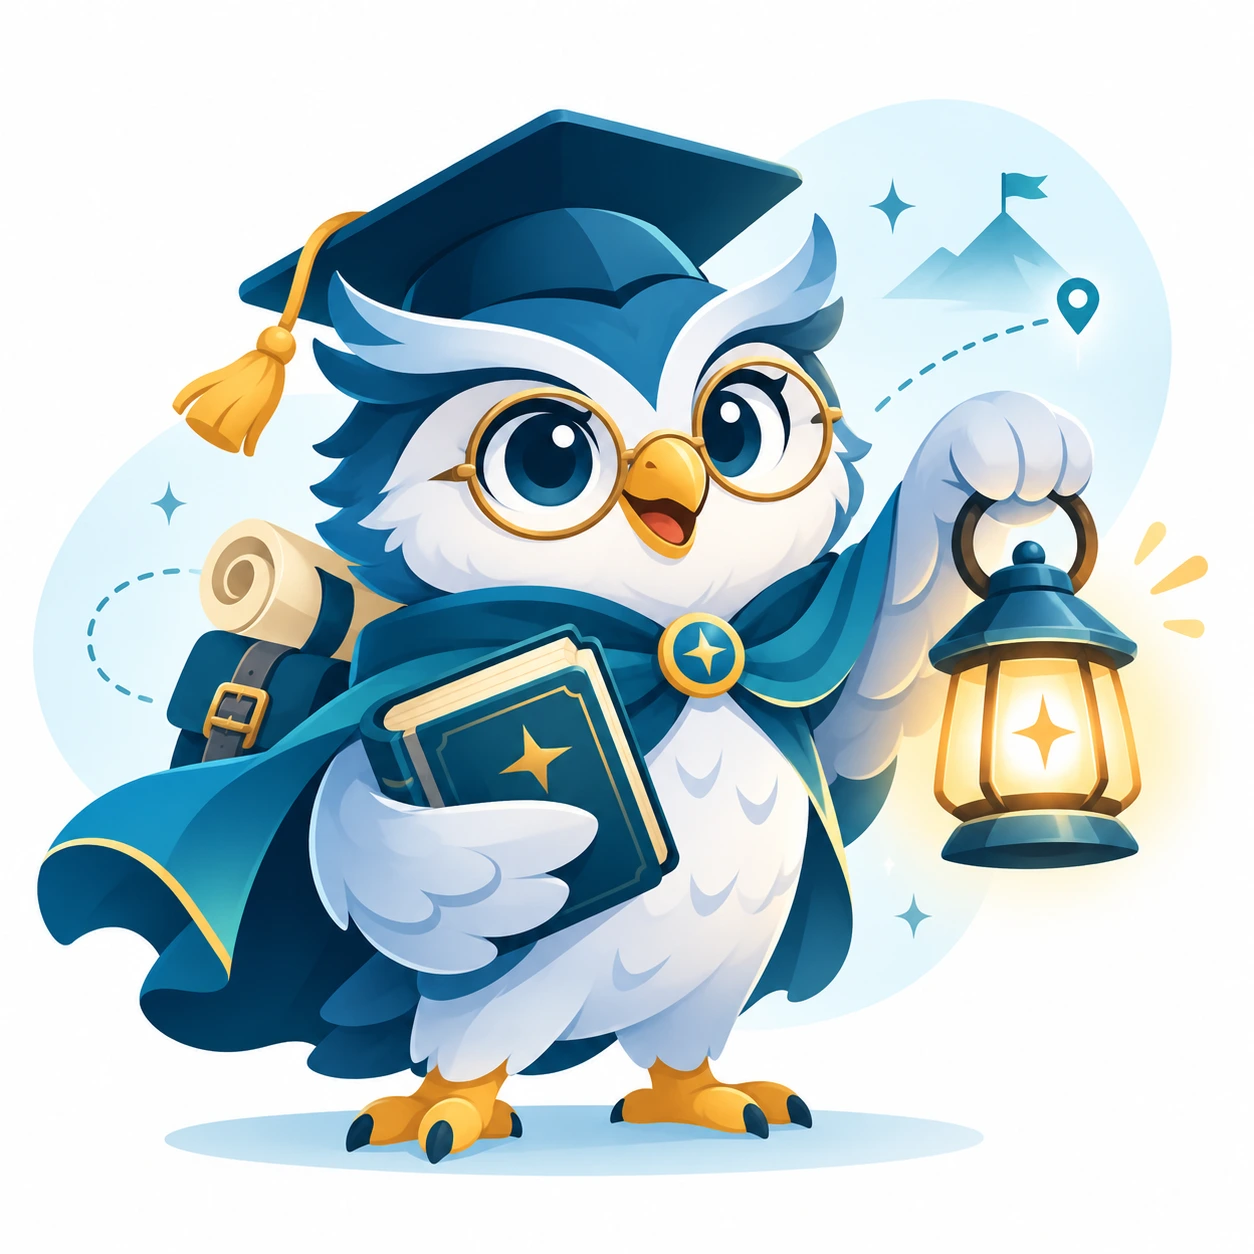
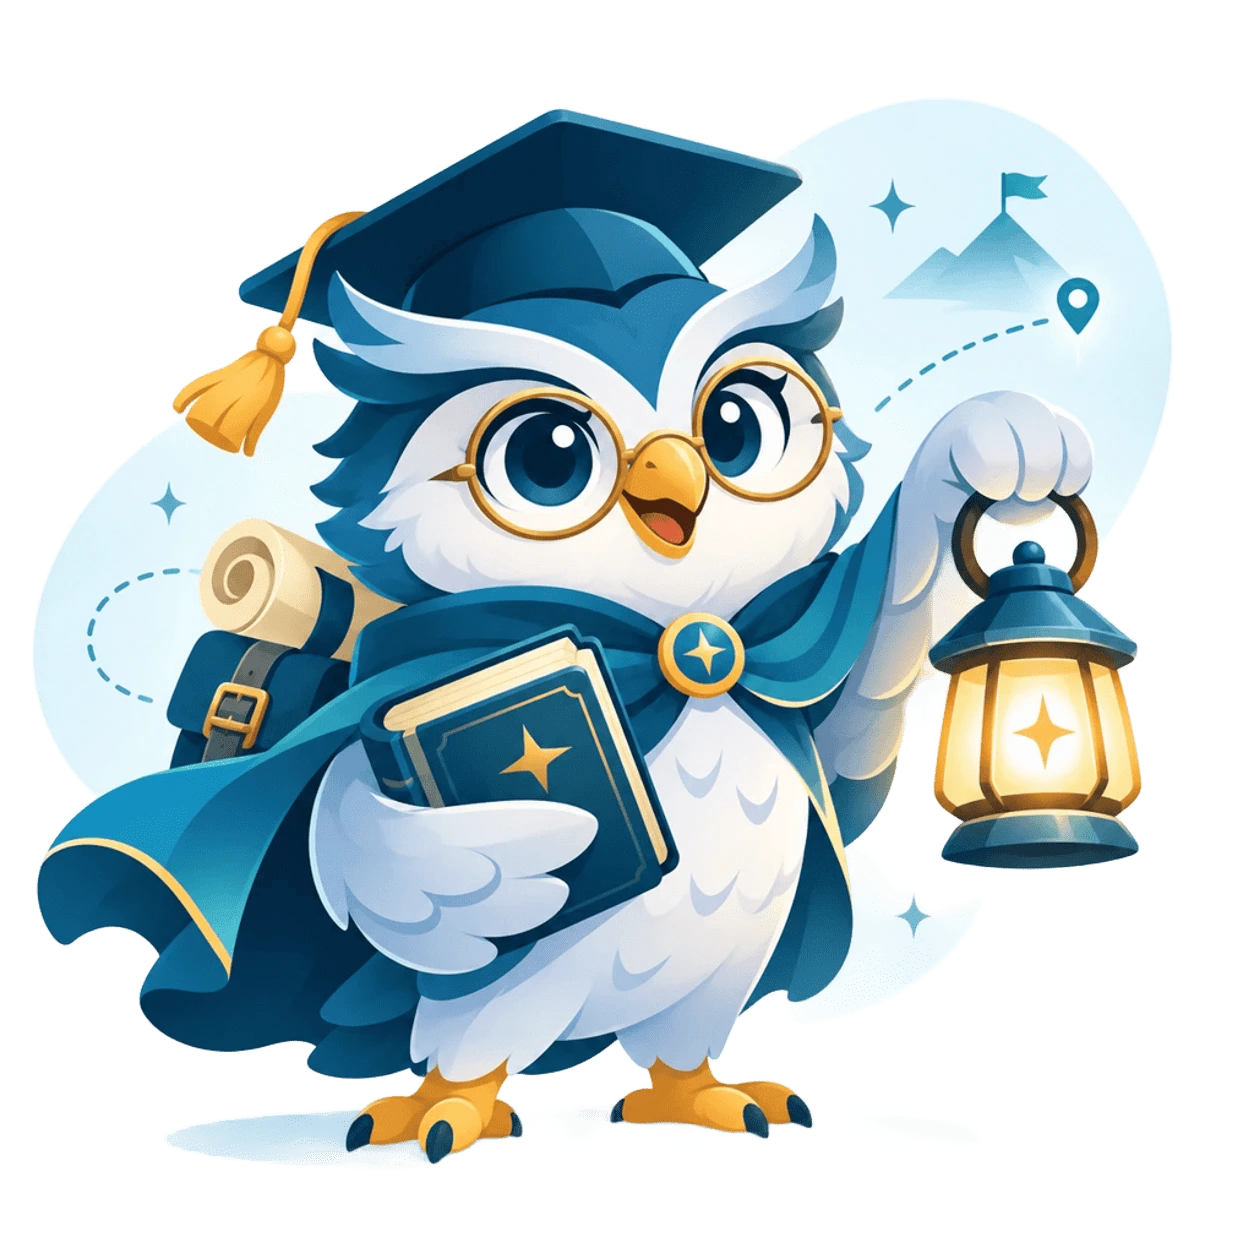
feat: enhance AboutSection layout and add useHeroReveal hook for improved animations

diff --git a/FrontEnd/src/features/home/components/Hero.tsx b/FrontEnd/src/features/home/components/Hero.tsx
@@ -1,43 +1,68 @@
-import { ArrowRight } from "lucide-react"
-import { Button } from "@/shared/components/ui/button"
-import { WaveBg } from "./wave"
-import Link from "next/link"
+"use client";
+
+import { ArrowRight } from "lucide-react";
+import { Button } from "@/shared/components/ui/button";
+import { WaveBg } from "./wave";
+import Link from "next/link";
+import { useHeroReveal } from "@/features/home/hooks/useHeroReveal";
 
 export function Hero() {
+  const { heroRef, leftRef, rightRef, contentRef } = useHeroReveal();
+
   return (
-    <section id="top" className="relative overflow-hidden bg-background px-4 pt-40 md:pt-32 pb-28 mx-auto">
-      <div className="flex items-center justify-center">
-        <div className="w-full container overflow-hidden bg-secondary-light relative z-10 flex flex-col items-center gap-6 text-center px-4 py-30 rounded-3xl">
+    <section
+      ref={heroRef}
+      id="top"
+      className="bg-background relative mx-auto min-h-screen overflow-hidden px-4 pt-40 pb-28 md:pt-32"
+    >
+      {/* Dark curtain */}
+      <div
+        aria-hidden="true"
+        className="pointer-events-none absolute inset-0 z-30 flex overflow-hidden"
+      >
+        <div ref={leftRef} className="h-full w-1/2 bg-[#101820]" />
+        <div ref={rightRef} className="h-full w-1/2 bg-[#101820]" />
+      </div>
 
-            <h1 className="max-w-[30ch] text-[clamp(2.2rem,5.2vw,5rem)] leading-tight font-extrabold tracking-normal text-balance text-primary-text">
-                Materi, progres, dan review. Semua di satu tempat.
-            </h1>
+      {/* Hero content */}
+      <div ref={contentRef} className="flex items-center justify-center">
+        <div className="bg-secondary-light relative z-10 container flex w-full flex-col items-center gap-6 overflow-hidden rounded-3xl px-4 py-30 text-center">
+          <h1 className="text-primary-text max-w-[30ch] text-[clamp(2.2rem,5.2vw,5rem)] leading-tight font-extrabold tracking-normal text-balance">
+            Materi, progres, dan review. Semua di satu tempat.
+          </h1>
 
-            <p className="max-w-[70ch] text-[clamp(0.9375rem,1.5vw,1.0625rem)] leading-relaxed text-pretty text-secondary-text">
-            Mentor langsung tahu siapa yang belum mulai dan siapa yang menunggu review. Anggota tahu persis apa yang dikerjakan berikutnya. Tanpa tanya-tanya di grup chat.
-            </p>
+          <p className="text-secondary-text max-w-[70ch] text-[clamp(0.9375rem,1.5vw,1.0625rem)] leading-relaxed text-pretty">
+            Mentor langsung tahu siapa yang belum mulai dan siapa yang menunggu
+            review. Anggota tahu persis apa yang dikerjakan berikutnya. Tanpa
+            tanya-tanya di grup chat.
+          </p>
 
-            <div className="mt-1.5 flex flex-wrap justify-center gap-3">
-            <Button size="lg" className="group h-11 rounded-full px-6 bg-primary text-[15px] font-semibold text-white hover:bg-white hover:text-primary-text cursor-pointer">
-                <Link href={"/auth"} className="h-11 flex gap-1 items-center justify-center">
+          <div className="mt-1.5 flex flex-wrap justify-center gap-3">
+            <Button
+              size="lg"
+              className="group bg-primary hover:text-primary-text h-11 cursor-pointer rounded-full px-6 text-[15px] font-semibold text-white hover:bg-white"
+            >
+              <Link
+                href="/auth"
+                className="flex items-center justify-center gap-1"
+              >
                 Mulai
                 <ArrowRight className="ml-1 size-4 transition-transform group-hover:translate-x-0.5" />
-                </Link>
+              </Link>
             </Button>
-            <Button
-                size="lg"
-                variant="outline"
-                className="h-11 rounded-full border-border bg-background px-6 text-[15px] font-semibold text-primary-text hover:bg-primary hover:text-white cursor-pointer"
-            >
-                <Link href={"#how-to"}>
-                    Jelajahi
-                </Link>
-            </Button>
-            </div>
 
-            <WaveBg />
+            <Button
+              size="lg"
+              variant="outline"
+              className="border-border bg-background text-primary-text hover:bg-primary h-11 cursor-pointer rounded-full px-6 text-[15px] font-semibold hover:text-white"
+            >
+              <Link href="#how-to">Jelajahi</Link>
+            </Button>
+          </div>
+
+          <WaveBg />
         </div>
       </div>
     </section>
-  )
+  );
 }

diff --git a/FrontEnd/src/features/home/components/AboutSection.tsx b/FrontEnd/src/features/home/components/AboutSection.tsx
@@ -1,37 +1,44 @@
-import { Settings } from "lucide-react"
-import { Separator } from "@base-ui/react/separator"
-import { OwlArt } from "./owl-art"
-import { STATS } from "../data/data"
-import Image from "next/image"
+import { Settings } from "lucide-react";
+import { Separator } from "@base-ui/react/separator";
+import { OwlArt } from "./owl-art";
+import { STATS } from "../data/data";
+import Image from "next/image";
 
 export function About() {
   return (
-    <section id="tentang" className="bg-background py-[clamp(3.5rem,7vw,6rem)] px-4">
-      <div className="container grid items-center gap-[clamp(1.75rem,5vw,4rem)] lg:grid-cols-[1.05fr_.95fr] mx-auto">
+    <section
+      id="tentang"
+      className="bg-background px-4 py-[clamp(3.5rem,7vw,6rem)]"
+    >
+      <div className="container mx-auto grid items-center gap-[clamp(1.75rem,5vw,4rem)] lg:grid-cols-[1.05fr_.95fr]">
         <div className="flex flex-col gap-8">
-
-          <h2 className="max-w-[26ch] text-[clamp(1.625rem,3.4vw,2.375rem)] leading-[1.16] font-extrabold tracking-[-0.02em] text-balance text-primary-text">
+          <h2 className="text-primary-text max-w-[26ch] text-[clamp(1.625rem,3.4vw,2.375rem)] leading-[1.16] font-extrabold tracking-[-0.02em] text-balance">
             Semua Tentang Lentera.
           </h2>
 
-          <p className="text-[15px] leading-[1.72] text-secondary-text text-justify">
-            Workshop dan kelompok belajar BCC diikuti banyak anggota dengan ritme yang tidak sama.
-            Sebagian sudah menyelesaikan materi pertama, sebagian belum mulai, sebagian menunggu
-            keputusan review. Tanpa catatan bersama, informasi ini tersebar di percakapan dan ingatan. Learning Tracker menyatukan materi, progres, dan hasil belajar dalam satu sumber yang sama. Mentor buka satu halaman, langsung tahu siapa yang perlu didorong, siapa yang menunggu review, dan materi mana yang mandek. Tanpa perlu tanya ulang.
+          <p className="text-secondary-text text-justify text-[15px] leading-[1.72]">
+            Workshop dan kelompok belajar BCC diikuti banyak anggota dengan
+            ritme yang tidak sama. Sebagian sudah menyelesaikan materi pertama,
+            sebagian belum mulai, sebagian menunggu keputusan review. Tanpa
+            catatan bersama, informasi ini tersebar di percakapan dan ingatan.
+            Learning Tracker menyatukan materi, progres, dan hasil belajar dalam
+            satu sumber yang sama. Mentor buka satu halaman, langsung tahu siapa
+            yang perlu didorong, siapa yang menunggu review, dan materi mana
+            yang mandek. Tanpa perlu tanya ulang.
           </p>
 
-          <Separator className="mt-2.5 bg-border" />
+          <Separator className="bg-border mt-2.5" />
 
-          <div className="hidden md:grid grid-cols-1 gap-4 pt-1.5 sm:grid-cols-3 sm:gap-3">
+          <div className="hidden grid-cols-1 gap-4 pt-1.5 sm:grid-cols-3 sm:gap-3 md:grid">
             {STATS.map((s) => (
               <div key={s.label}>
-                <div className="mb-1 text-[11.5px] font-bold tracking-[0.1em] text-secondary-text/60 uppercase">
+                <div className="text-secondary-text/60 mb-1 text-[11.5px] font-bold tracking-[0.1em] uppercase">
                   {s.label}
                 </div>
-                <div className="text-[22px] font-extrabold tracking-[-0.02em] text-primary">
+                <div className="text-primary text-[22px] font-extrabold tracking-[-0.02em]">
                   {s.num}
                 </div>
-                <div className="mt-0.5 text-[13px] leading-snug text-secondary-text">
+                <div className="text-secondary-text mt-0.5 text-[13px] leading-snug">
                   {s.desc}
                 </div>
               </div>
@@ -39,10 +46,16 @@ export function About() {
           </div>
         </div>
 
-        <div className="order-first lg:order-none h-full flex items-center justify-center border bg-secondary-light rounded-3xl">
-          <Image src={"/owl-art.webp"} alt="maskot" width={500} height={500} className="w-[50%]"/>
+        <div className="bg-secondary-light order-first flex h-full items-center justify-center rounded-3xl border lg:order-none">
+          <Image
+            src={"/mascot.webp"}
+            alt="mascot"
+            width={500}
+            height={500}
+            className="w-[50%]"
+          />
         </div>
       </div>
     </section>
-  )
+  );
 }

diff --git a/FrontEnd/src/features/home/hooks/useHeroReveal.ts b/FrontEnd/src/features/home/hooks/useHeroReveal.ts
@@ -1,0 +1,88 @@
+"use client";
+
+import { useLayoutEffect, useRef } from "react";
+import gsap from "gsap";
+import { ScrollTrigger } from "gsap/ScrollTrigger";
+
+gsap.registerPlugin(ScrollTrigger);
+
+export function useHeroReveal() {
+  const heroRef = useRef<HTMLElement>(null);
+  const leftRef = useRef<HTMLDivElement>(null);
+  const rightRef = useRef<HTMLDivElement>(null);
+  const contentRef = useRef<HTMLDivElement>(null);
+
+  useLayoutEffect(() => {
+    const hero = heroRef.current;
+    const left = leftRef.current;
+    const right = rightRef.current;
+    const content = contentRef.current;
+
+    if (!hero || !left || !right || !content) return;
+
+    const mm = gsap.matchMedia();
+
+    mm.add("(prefers-reduced-motion: no-preference)", () => {
+      const ctx = gsap.context(() => {
+        const tl = gsap.timeline({
+          defaults: {
+            ease: "none",
+          },
+          scrollTrigger: {
+            trigger: hero,
+            start: "top top",
+            end: "+=100%",
+            scrub: 1,
+            pin: true,
+            anticipatePin: 1,
+          },
+        });
+
+        tl.to(
+          left,
+          {
+            xPercent: -100,
+            duration: 1,
+          },
+          0,
+        )
+          .to(
+            right,
+            {
+              xPercent: 100,
+              duration: 1,
+            },
+            0,
+          )
+          .fromTo(
+            content,
+            {
+              opacity: 0.5,
+              scale: 0.96,
+            },
+            {
+              opacity: 1,
+              scale: 1,
+              duration: 0.7,
+            },
+            0.2,
+          );
+      }, hero);
+
+      return () => ctx.revert();
+    });
+
+    mm.add("(prefers-reduced-motion: reduce)", () => {
+      gsap.set([left, right], { display: "none" });
+    });
+
+    return () => mm.revert();
+  }, []);
+
+  return {
+    heroRef,
+    leftRef,
+    rightRef,
+    contentRef,
+  };
+}
